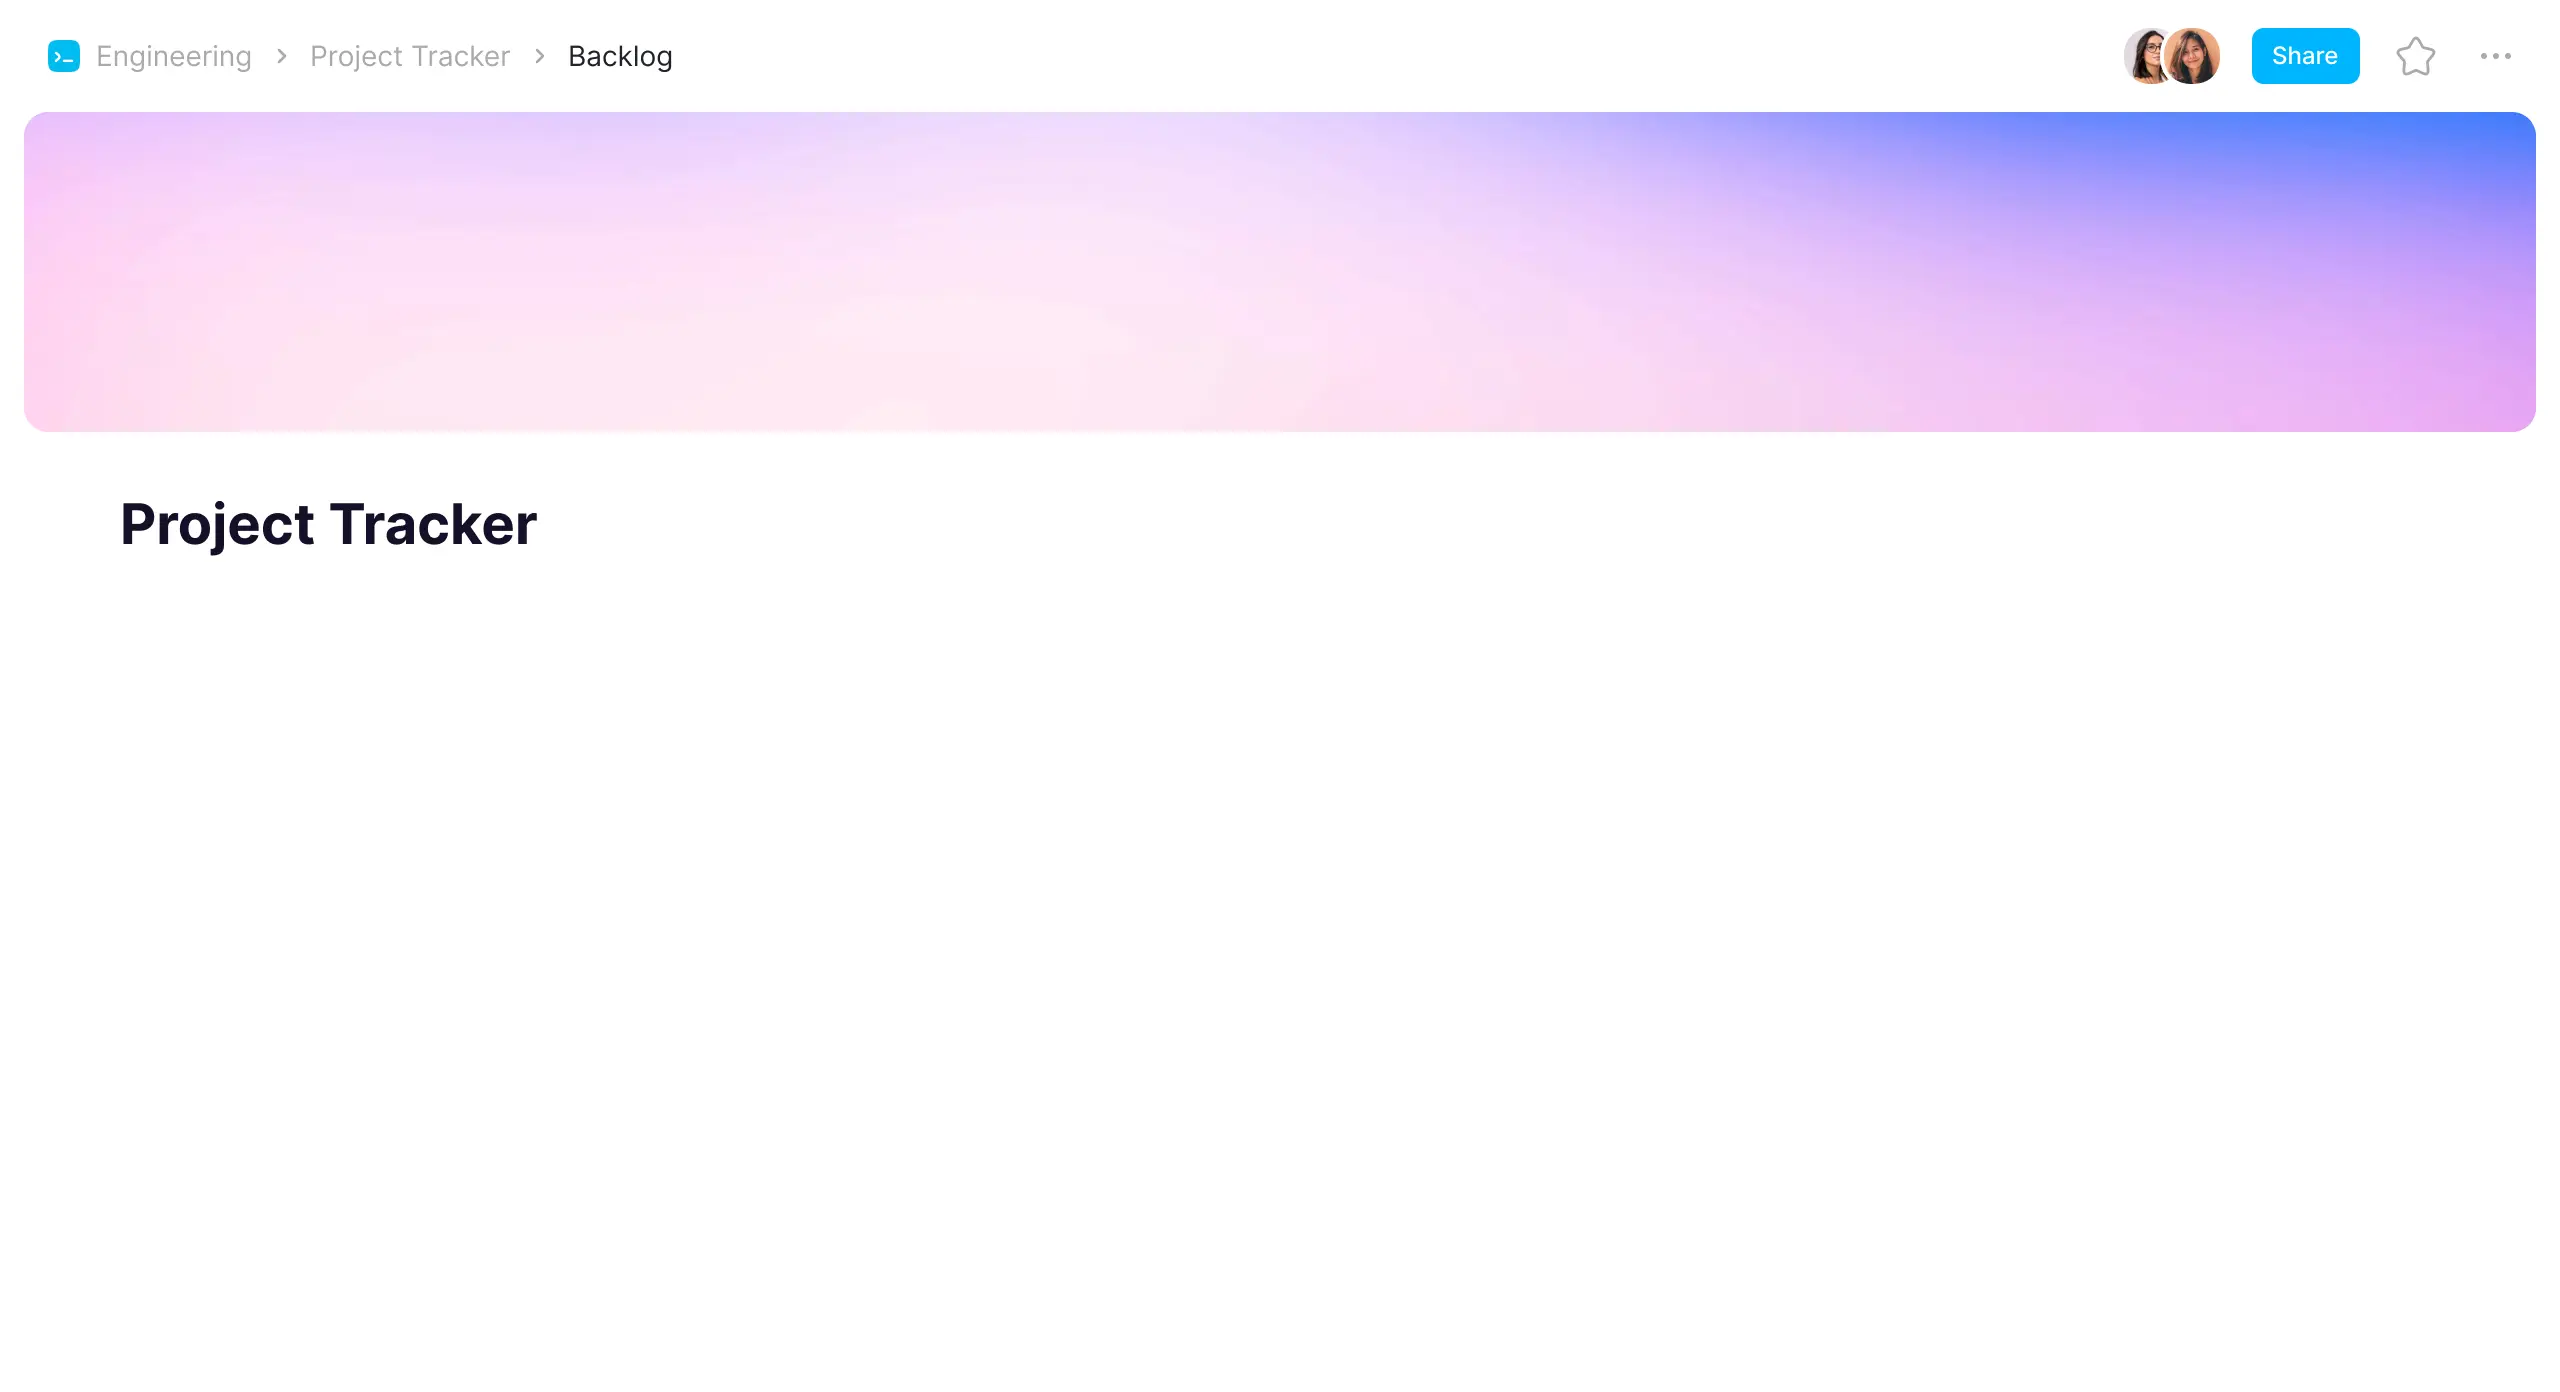
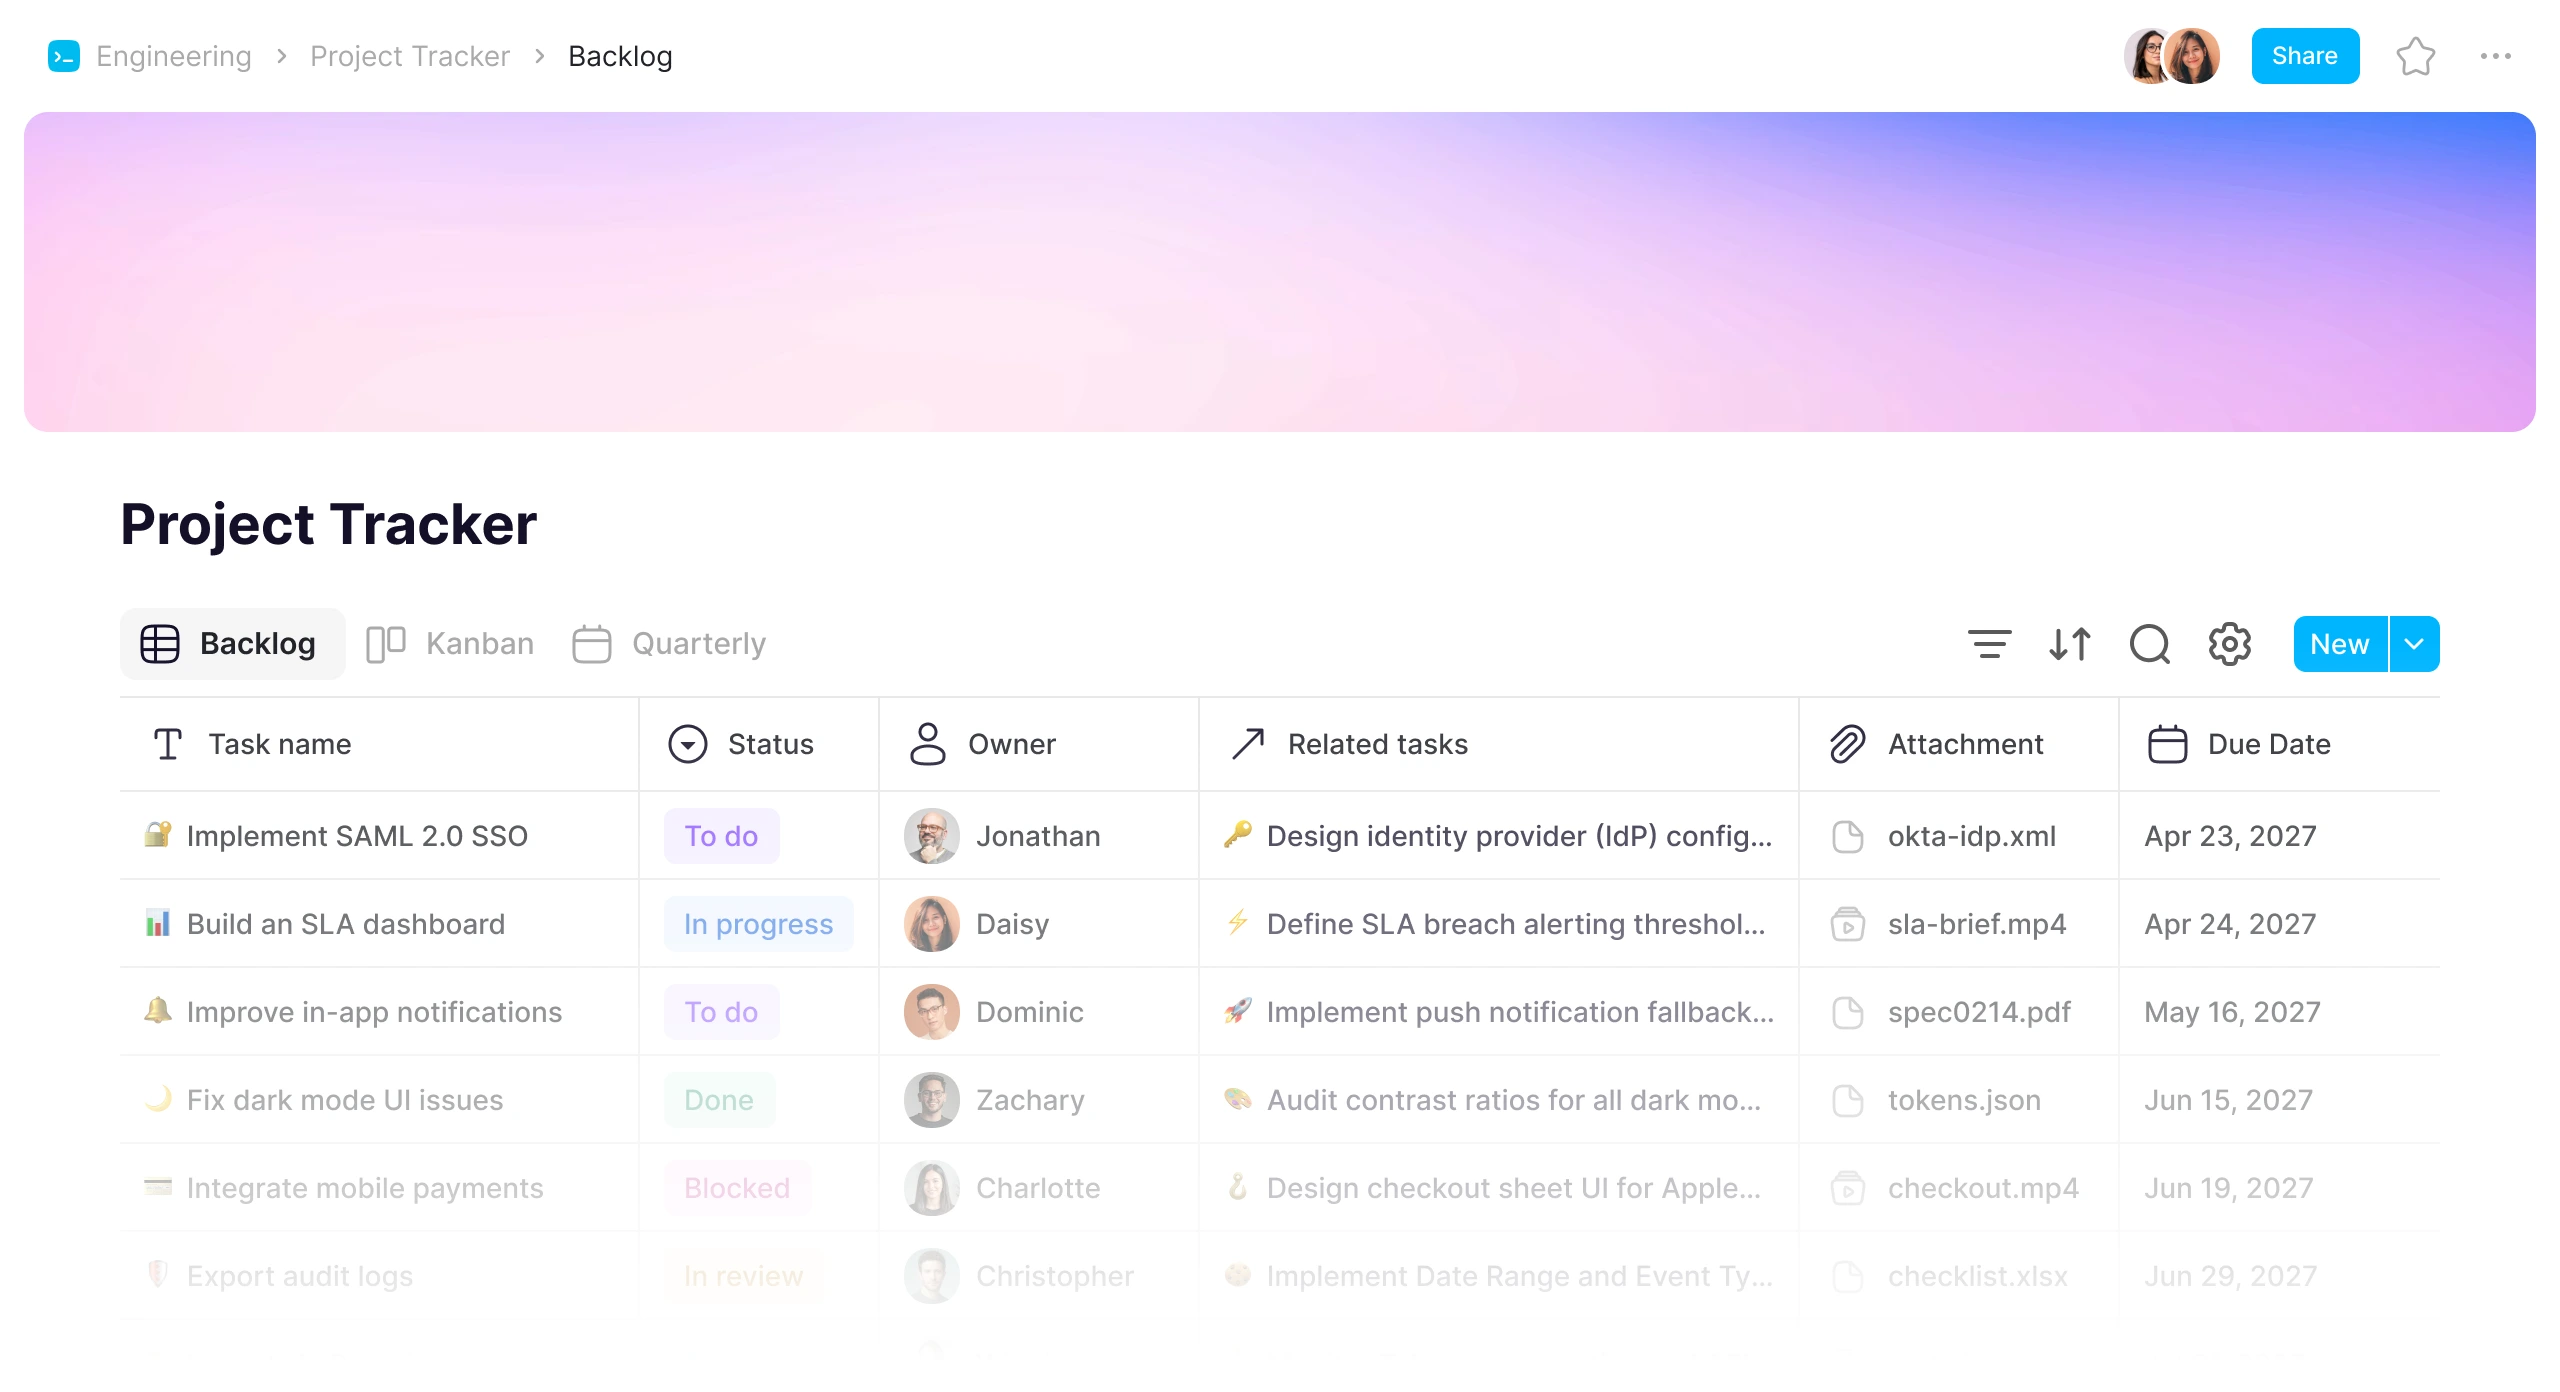
refactor: optimise the backlog illustration

diff --git a/components/illustrations/backlog-illu.tsx b/components/illustrations/backlog-illu.tsx
@@ -3,11 +3,15 @@
 import BacklogBase from '@/assets/images/illustrations/backlog-illu-base.webp';
 import BacklogMenu1 from '@/assets/images/illustrations/backlog-menu-1.webp';
 import BacklogMenu2 from '@/assets/images/illustrations/backlog-menu-2.webp';
-import BacklogOverlay from '@/assets/images/illustrations/backlog-illu-overlay.webp';
 import { motion } from 'framer-motion';
 import Image from 'next/image';
 import Cursor from './cursor';
 import { IllustrationProps } from './types';
+
+// DecoyReveal: backlog-illu-base.webp already has the table fully drawn in
+// alongside the page chrome. Instead of a separate overlay image, we hide
+// the table behind a plain white decoy and animate the decoy away to
+// reveal it — no second layer to export.
 
 const BASE_SLIDE_DURATION = 0.6;
 
@@ -19,13 +23,22 @@ const EMILY_DEST = { left: 20, top: 100 };
 const EMILY_REVEAL_START = 0.25;
 const EMILY_APPEAR_DURATION = 1.25;
 
-// The overlay (tabs/toolbar + table) reveals as one continuous accordion —
-// height animates 0 -> 'auto', which Framer Motion resolves to the image's
-// real rendered height. Starts once Emily has landed, so the table appears
-// to grow in right after she arrives.
-const OVERLAY_REVEAL_START = 0.1;
-const OVERLAY_REVEAL_DURATION = 1.5;
-const OVERLAY_REVEAL_END = OVERLAY_REVEAL_START + OVERLAY_REVEAL_DURATION;
+// Table footprint, measured directly off backlog-illu-base.webp as a
+// percentage of its own 2560x1392 canvas — spans from the border above the
+// column headers down to the bottom of the frame (the last row's fade is
+// already baked into the base image below that).
+const TABLE_LEFT = 4.69;
+const TABLE_TOP = 50;
+const TABLE_WIDTH = 90.63;
+const TABLE_HEIGHT = 50;
+
+// Table decoy: height animates to 0, pinned via `bottom`, so it recedes
+// downward — uncovering the header and rows top-to-bottom, one after
+// another. Starts once Emily has landed, so the table appears to grow in
+// right after she arrives.
+const TABLE_REVEAL_START = 0.1;
+const TABLE_REVEAL_DURATION = 1.5;
+const TABLE_REVEAL_END = TABLE_REVEAL_START + TABLE_REVEAL_DURATION;
 
 // Sized/positioned off the original composited backlog.webp reference: both
 // cards share their native width (they're the same width in their source
@@ -37,7 +50,7 @@ const MENU_WIDTH = 28;
 const MENU_2_SLOT = { right: 14, top: 15 };
 const MENU_1_SLOT = { right: -1, top: 50 };
 
-const MENU_START = OVERLAY_REVEAL_END + 0.15;
+const MENU_START = TABLE_REVEAL_END + 0.15;
 const MENU_STAGGER = 0.2;
 const MENU_FADE_DURATION = 0.5;
 
@@ -59,26 +72,22 @@ function BacklogIllu({ className }: IllustrationProps) {
             className={'object-contain'}
           />
 
-          {/* Overlay: nested inside the base's own wrapper so it rides the
-              same entrance slide with zero relative motion. The height
-              reveal is the accordion — overflow-hidden clips a naturally
-              full-height image, so growing the wrapper's height uncovers
-              the tabs/toolbar first, then the table rows beneath. */}
-          <motion.div
-            className={'absolute left-0 top-6 w-full overflow-hidden'}
-            initial={{ height: 0 }}
-            animate={{ height: 'auto' }}
-            transition={{ duration: OVERLAY_REVEAL_DURATION, delay: OVERLAY_REVEAL_START, ease: 'easeInOut' }}
+          {/* Table decoy: nested inside the base's own wrapper for the same
+              zero-relative-motion reason as Emily and the menus below. */}
+          <div
+            className={'absolute'}
+            style={{ left: `${TABLE_LEFT}%`, top: `${TABLE_TOP}%`, width: `${TABLE_WIDTH}%`, height: `${TABLE_HEIGHT}%` }}
           >
-            <Image
-              src={BacklogOverlay}
-              alt={''}
-              className={'block h-auto w-full'}
+            <motion.div
+              className={'absolute inset-x-0 bottom-0 bg-white'}
+              initial={{ height: '100%' }}
+              animate={{ height: '0%' }}
+              transition={{ duration: TABLE_REVEAL_DURATION, delay: TABLE_REVEAL_START, ease: 'easeInOut' }}
             />
-          </motion.div>
+          </div>
 
           {/* Emily: nested inside the base wrapper for the same zero-
-              relative-motion reason as the overlay below — fades in and
+              relative-motion reason as the table decoy above — fades in and
               slides down to her landing spot before the table starts
               growing in beneath her. */}
           <motion.div
